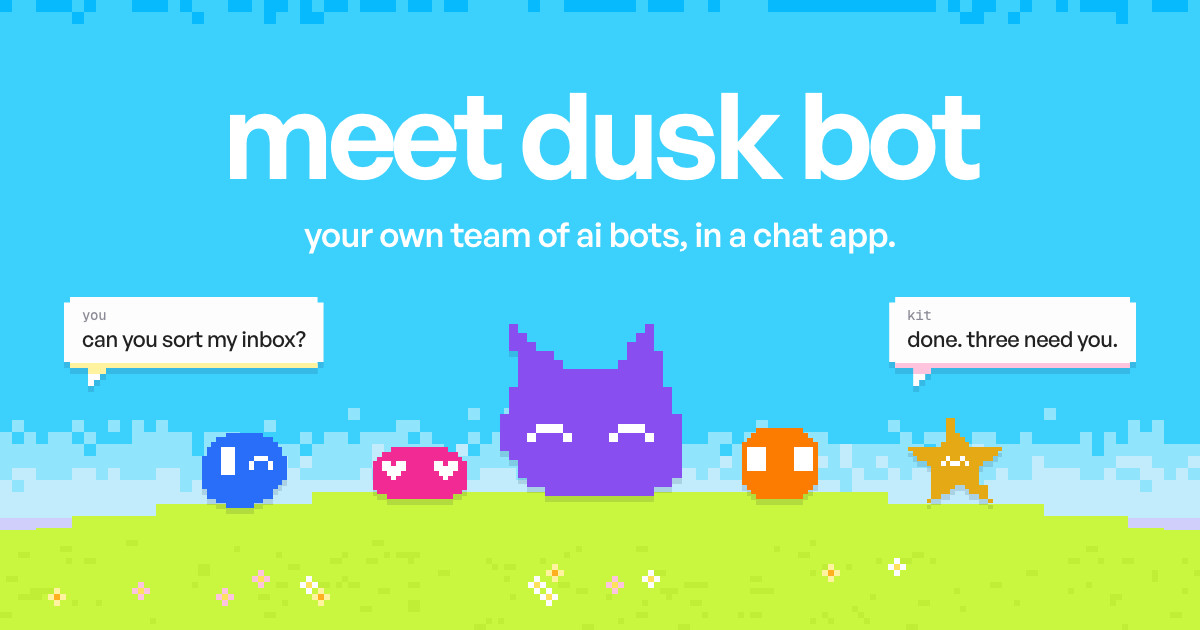
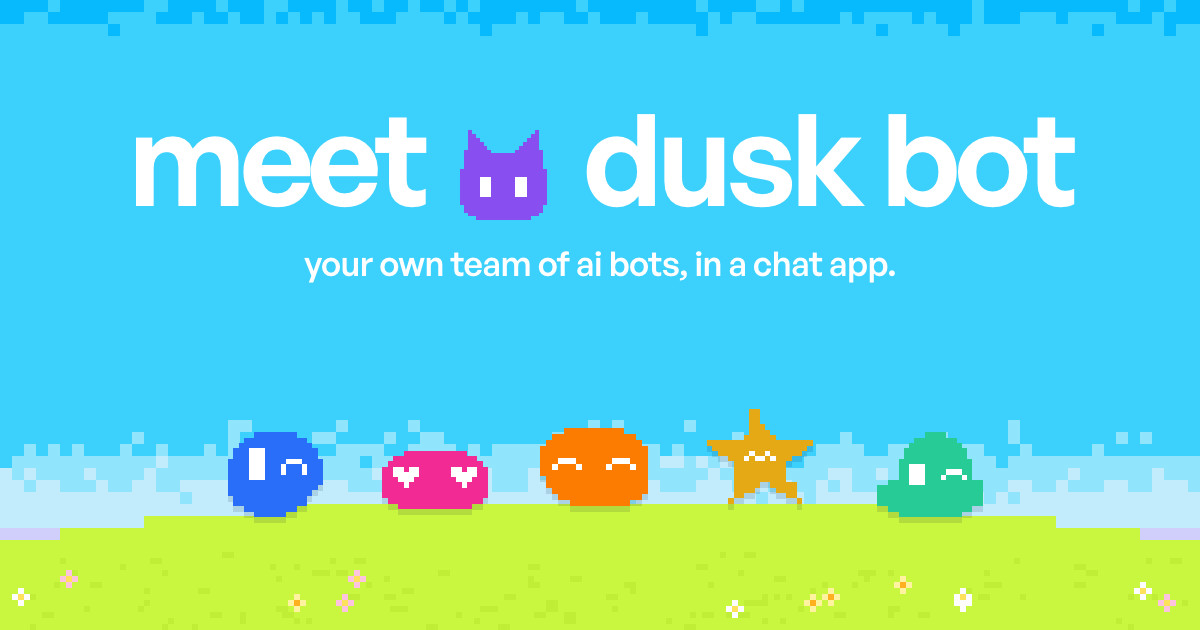
dusk site: home share card with kit in the title
the home and waitlist card now reads like the landing hero: "meet [kit] dusk bot" with the
purple cat bot standing in the title like a letter, the line under it, and the rest of
the team evenly spaced on the hill, no chat (variant b). og.jpg follows it.

Claude-Session: https://claude.ai/code/session_01U69uFLMgJgS6MvZ1Fa28ZA

diff --git a/public/landing/index.html b/public/landing/index.html
@@ -16,13 +16,13 @@
 <meta property="og:image:type" content="image/jpeg">
 <meta property="og:image:width" content="1200">
 <meta property="og:image:height" content="630">
-<meta property="og:image:alt" content="meet dusk bot: a big purple cat bot and four small pixel bots on a hill under a blue pixel sky, chatting &quot;can you sort my inbox?&quot; &quot;done. three need you.&quot;">
+<meta property="og:image:alt" content="meet dusk bot, with the purple cat bot standing in the title between the words, and five pixel bots on a hill under a blue pixel sky">
 <meta name="twitter:card" content="summary_large_image">
 <meta name="twitter:site" content="@duskbot_hq">
 <meta name="twitter:title" content="dusk bot">
 <meta name="twitter:description" content="Your own team of AI bots, in a chat app, on the AI accounts you already have. Free on your computer. Dusk Cloud keeps them working when your laptop is off.">
 <meta name="twitter:image" content="https://dusk.bot/art/og6/home.jpg">
-<meta name="twitter:image:alt" content="meet dusk bot: a big purple cat bot and four small pixel bots on a hill under a blue pixel sky, chatting &quot;can you sort my inbox?&quot; &quot;done. three need you.&quot;">
+<meta name="twitter:image:alt" content="meet dusk bot, with the purple cat bot standing in the title between the words, and five pixel bots on a hill under a blue pixel sky">
 <link rel="icon" href="/favicon.ico" sizes="32x32">
 <link rel="icon" href="/art/icon-192.png?v=c9cc753c" type="image/png" sizes="192x192">
 <link rel="apple-touch-icon" href="/art/apple-touch-icon.png?v=ee212480">

diff --git a/public/landing/waitlist/index.html b/public/landing/waitlist/index.html
@@ -16,13 +16,13 @@
 <meta property="og:image:type" content="image/jpeg">
 <meta property="og:image:width" content="1200">
 <meta property="og:image:height" content="630">
-<meta property="og:image:alt" content="meet dusk bot: a big purple cat bot and four small pixel bots on a hill under a blue pixel sky, chatting &quot;can you sort my inbox?&quot; &quot;done. three need you.&quot;">
+<meta property="og:image:alt" content="meet dusk bot, with the purple cat bot standing in the title between the words, and five pixel bots on a hill under a blue pixel sky">
 <meta name="twitter:card" content="summary_large_image">
 <meta name="twitter:site" content="@duskbot_hq">
 <meta name="twitter:title" content="join the waitlist / dusk bot">
 <meta name="twitter:description" content="Turn the AI you already pay for into bots you text like teammates. Leave your email and get Dusk Bot early.">
 <meta name="twitter:image" content="https://dusk.bot/art/og6/home.jpg">
-<meta name="twitter:image:alt" content="meet dusk bot: a big purple cat bot and four small pixel bots on a hill under a blue pixel sky, chatting &quot;can you sort my inbox?&quot; &quot;done. three need you.&quot;">
+<meta name="twitter:image:alt" content="meet dusk bot, with the purple cat bot standing in the title between the words, and five pixel bots on a hill under a blue pixel sky">
 <link rel="icon" href="/favicon.ico" sizes="32x32">
 <link rel="icon" href="/art/icon-192.png?v=c9cc753c" type="image/png" sizes="192x192">
 <link rel="apple-touch-icon" href="/art/apple-touch-icon.png?v=ee212480">
